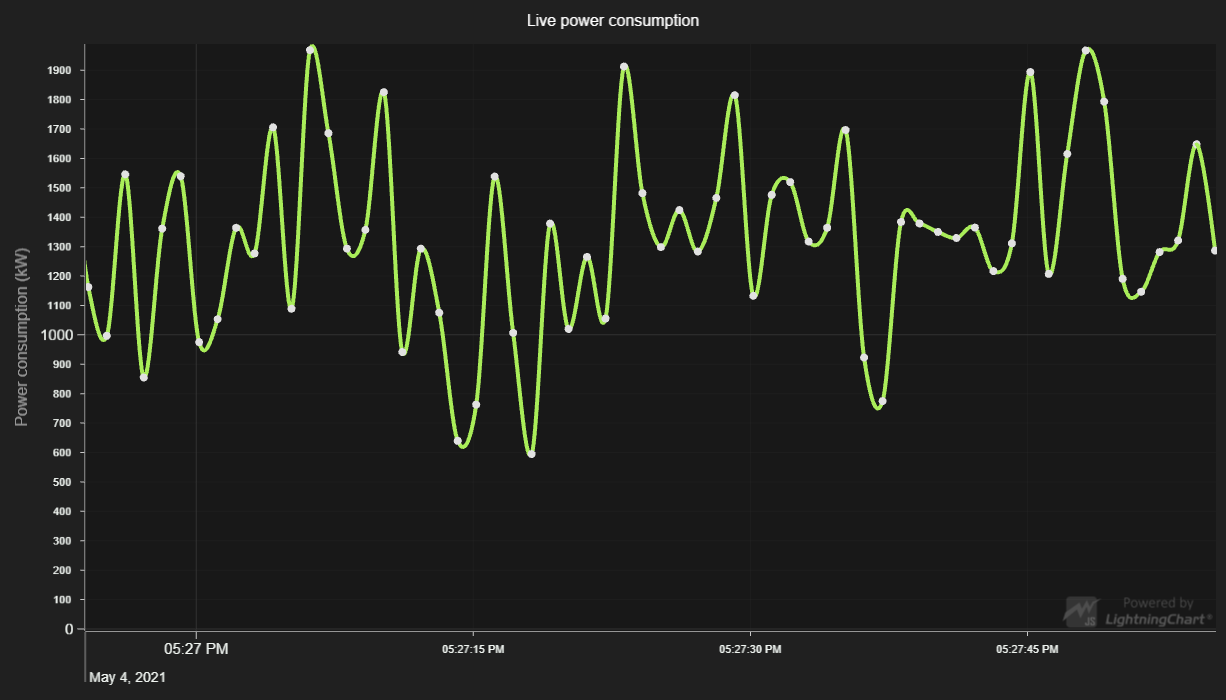
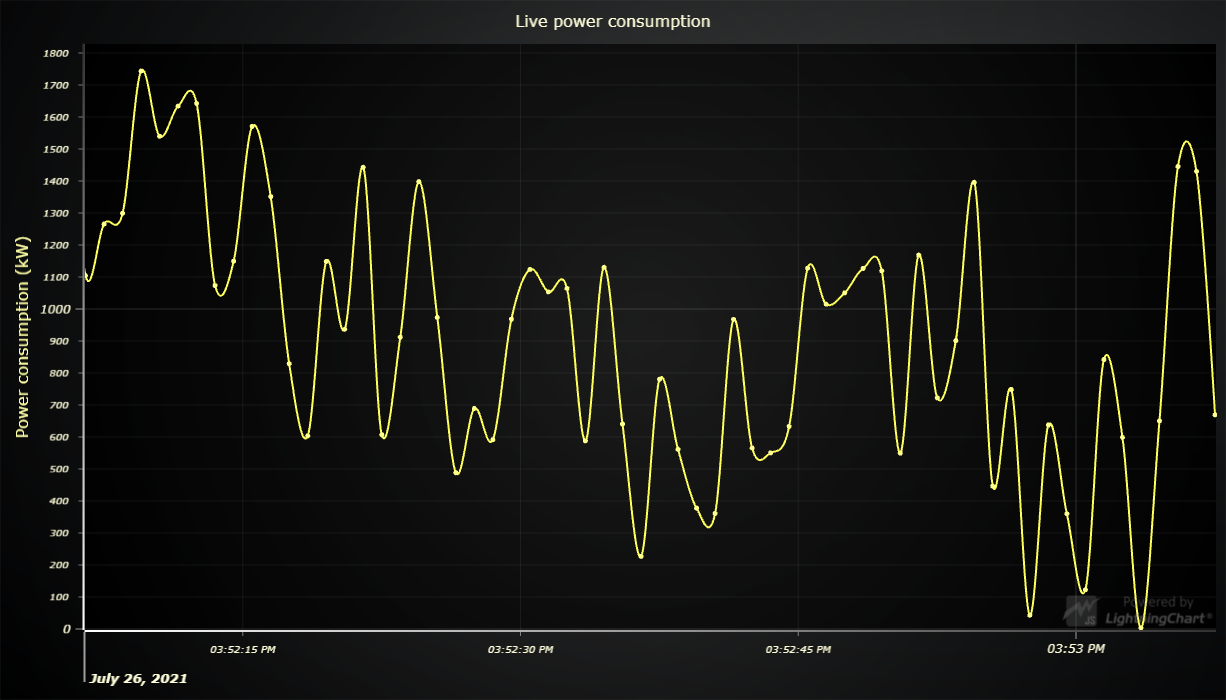
Update LCJS version

diff --git a/src/index.js b/src/index.js
@@ -22,7 +22,7 @@ const {
 const dateOrigin = new Date()
 const dataFrequency = 1000
 const chart = lightningChart().ChartXY({
-    // theme: Themes.dark
+    // theme: Themes.darkGold
 })
 
 chart
@@ -43,11 +43,6 @@ chart.getDefaultAxisY()
 
 const series = chart.addSplineSeries({ pointShape: PointShape.Circle })
     .setName('Power consumption')
-    .setStrokeStyle((strokeStyle) => strokeStyle
-        .setThickness(4)
-        .setFillStyle(new SolidFill({ color: ColorHEX('#A9ED59') }))
-    )
-    .setPointSize(8)
     .setCursorInterpolationEnabled(false)
     .setCursorResultTableFormatter((tableBuilder, series, x, y) => tableBuilder
         .addRow(series.getName())

diff --git a/webpack.config.js b/webpack.config.js
@@ -69,7 +69,8 @@ module.exports = {
         }),
         new CopyWebpackPlugin({
             patterns: [
-                { from: './assets/**/*', to: './examples/assets', flatten: true, noErrorOnMissing: true }
+                { from: './assets/**/*', to: './examples/assets', flatten: true, noErrorOnMissing: true },
+                { from: './node_modules/@arction/lcjs/dist/resources', to: 'resources', noErrorOnMissing: true },
             ]
         })
     ]

diff --git a/README.md b/README.md
@@ -102,12 +102,12 @@ Direct developer email support can be purchased through a [Support Plan][4] or b
 © Arction Ltd 2009-2020. All rights reserved.
 
 
-[Solid LineStyle]: https://www.arction.com/lightningchart-js-api-documentation/v3.0.1/classes/solidline.html
-[Solid FillStyle]: https://www.arction.com/lightningchart-js-api-documentation/v3.0.1/classes/solidfill.html
-[Transparent FillStyle]: https://www.arction.com/lightningchart-js-api-documentation/v3.0.1/globals.html#transparentfill
-[RGBA color factory]: https://www.arction.com/lightningchart-js-api-documentation/v3.0.1/globals.html#colorrgba
-[XY cartesian chart]: https://www.arction.com/lightningchart-js-api-documentation/v3.0.1/classes/chartxy.html
-[Spline series]: https://www.arction.com/lightningchart-js-api-documentation/v3.0.1/classes/splineseries.html
-[Scroll strategies]: https://www.arction.com/lightningchart-js-api-documentation/v3.0.1/globals.html#axisscrollstrategies
+[Solid LineStyle]: https://www.arction.com/lightningchart-js-api-documentation/v3.1.0/classes/solidline.html
+[Solid FillStyle]: https://www.arction.com/lightningchart-js-api-documentation/v3.1.0/classes/solidfill.html
+[Transparent FillStyle]: https://www.arction.com/lightningchart-js-api-documentation/v3.1.0/globals.html#transparentfill
+[RGBA color factory]: https://www.arction.com/lightningchart-js-api-documentation/v3.1.0/globals.html#colorrgba
+[XY cartesian chart]: https://www.arction.com/lightningchart-js-api-documentation/v3.1.0/classes/chartxy.html
+[Spline series]: https://www.arction.com/lightningchart-js-api-documentation/v3.1.0/classes/splineseries.html
+[Scroll strategies]: https://www.arction.com/lightningchart-js-api-documentation/v3.1.0/globals.html#axisscrollstrategies
 [Progressive random data generator]: https://arction.github.io/xydata/classes/progressiverandomgenerator.html
 
